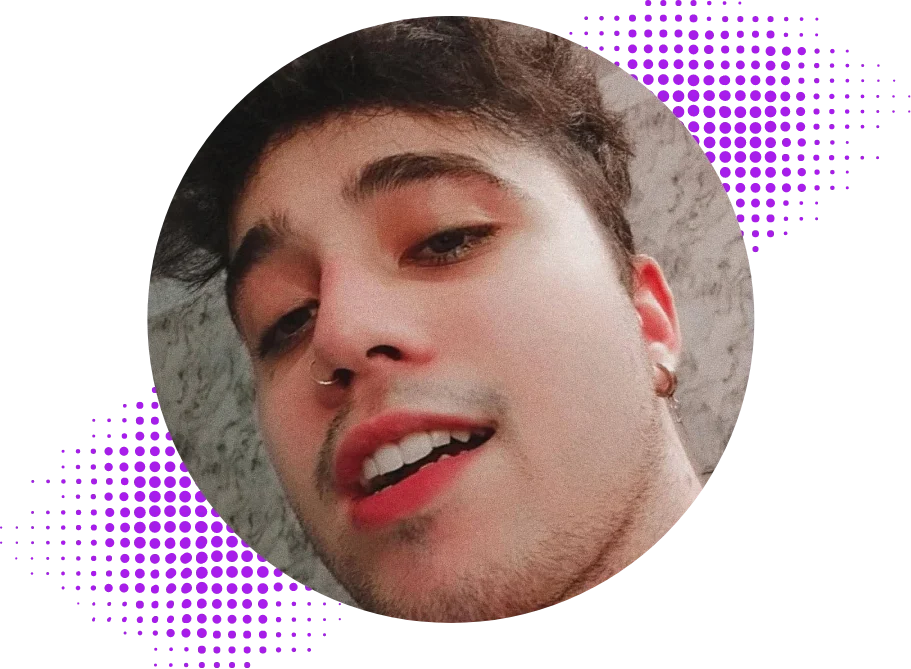
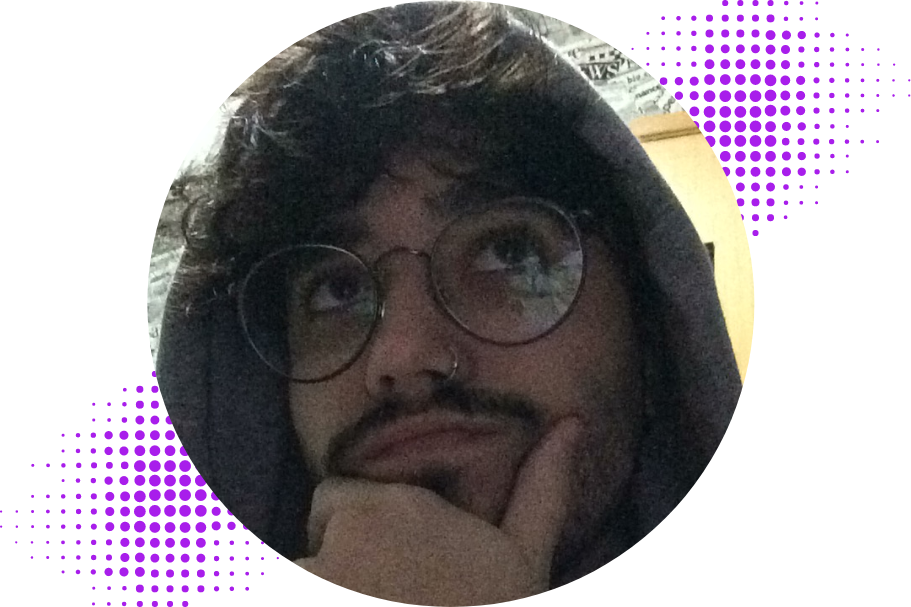
experience update and change photo

diff --git a/index.html b/index.html
@@ -163,6 +163,8 @@
 			    				<div class="content-title-experience">
 			    					<h6>Front End Developer Intern at UFRN:</h6>
 			    					<p>I developed a website for a game that UFRN was developing, the game was called Pharos. I was a great experience.</p>
+			    					<h6>Fullstack Intern at Synchro Solução Fiscal:</h6>
+			    					<p>I'm working at fullstack, using React, Java, Docker. The company is creating tax solutions and tax data for companies. Companies wich use the system are, Mc Donalds, TAP Air Portugal, Tigre, Volkswagen, Accor Hotels, SENAC.</p>
 			    				</div>
 			    			</div>
 			    			<!-- WEB EXPERIENCE -->
